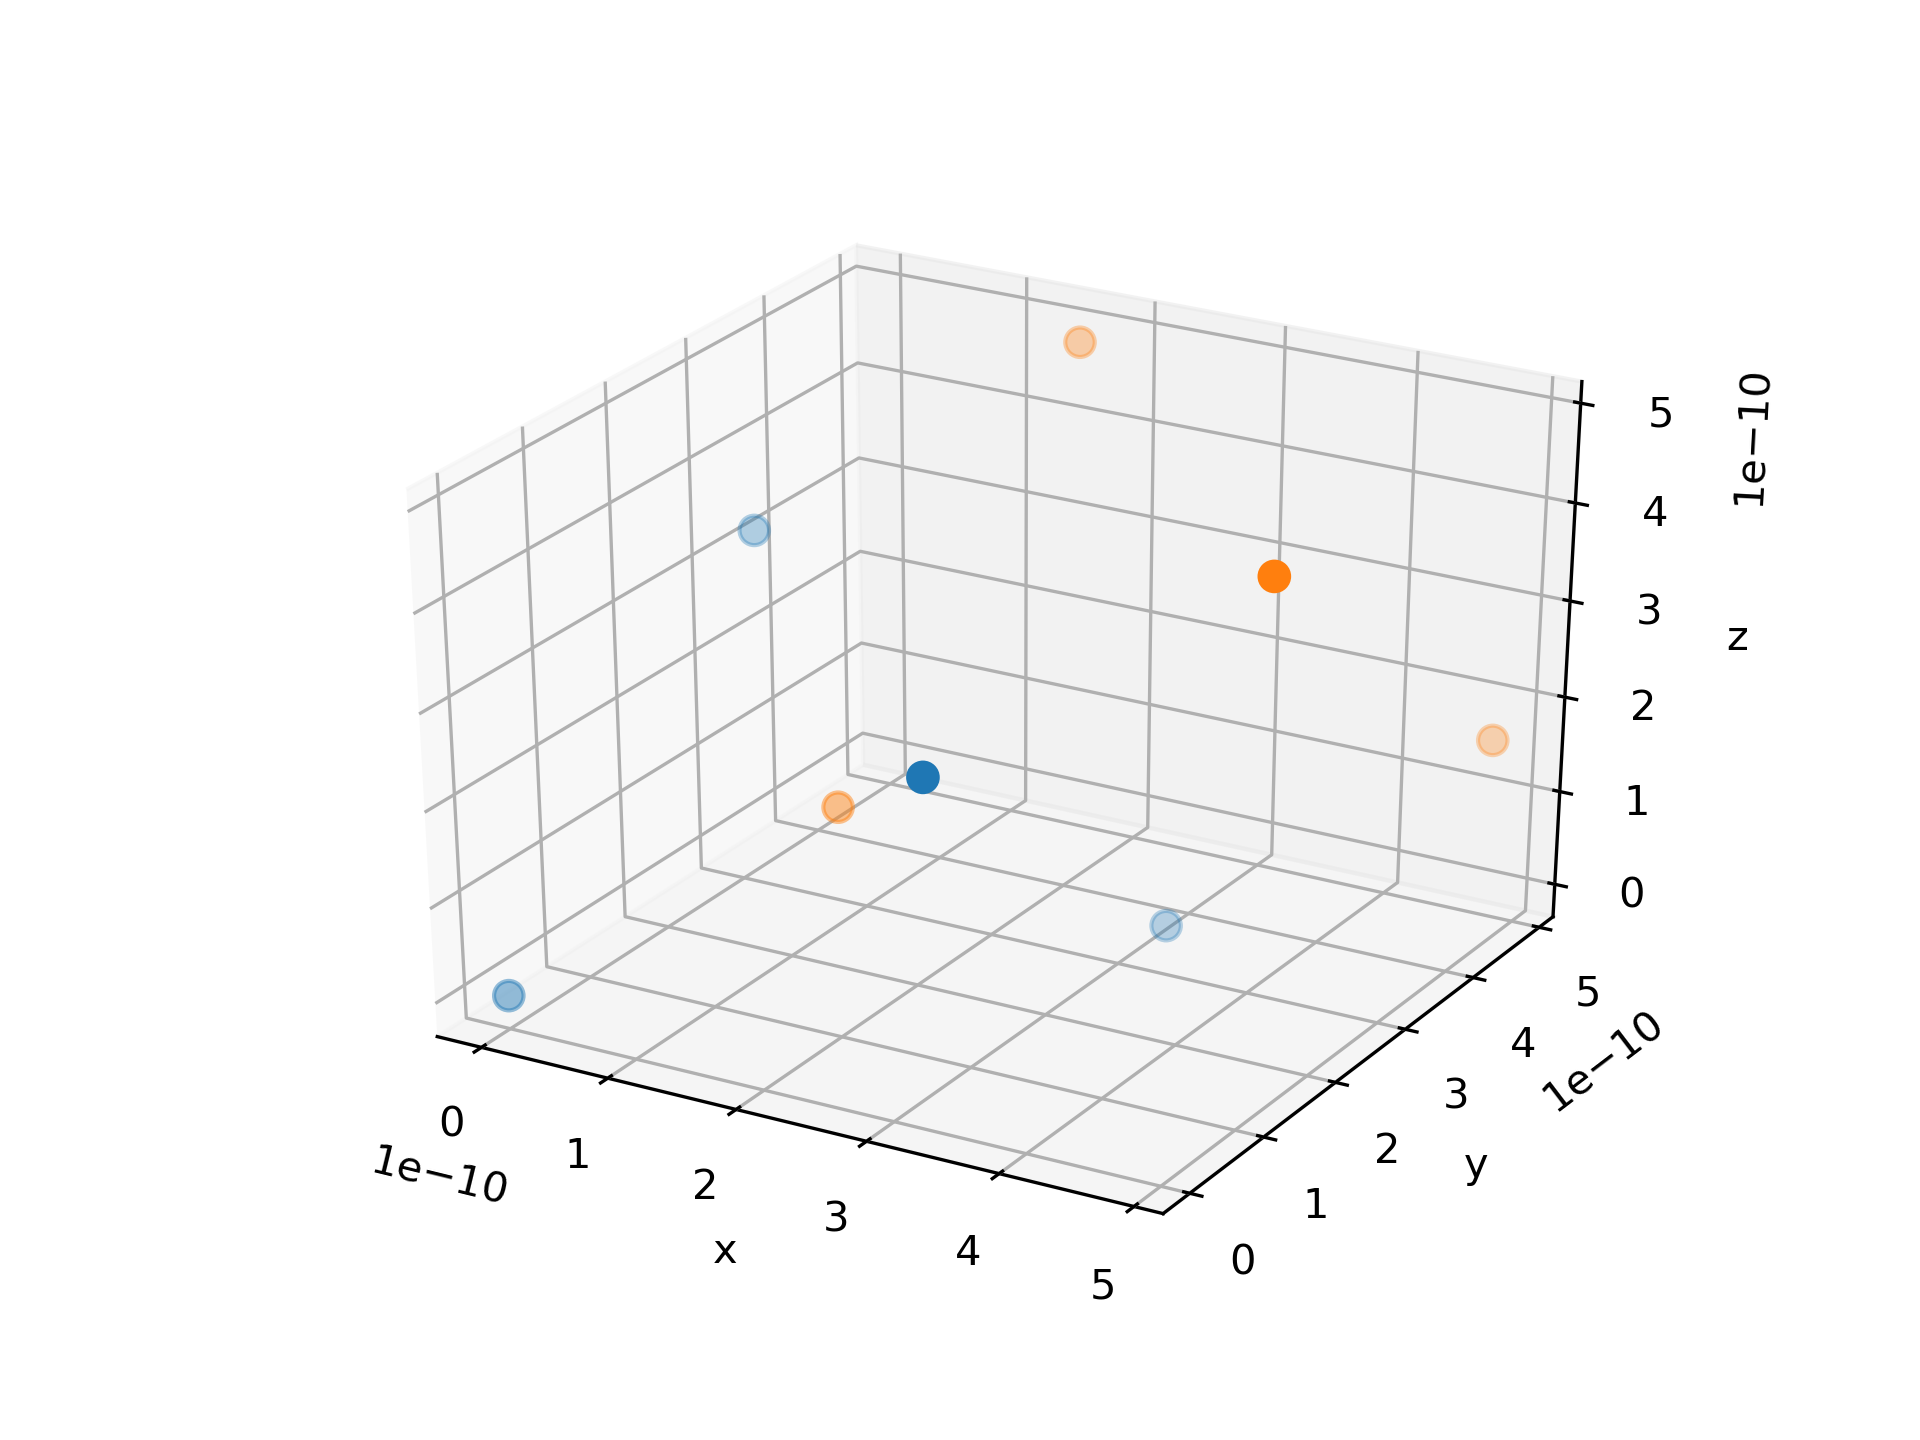
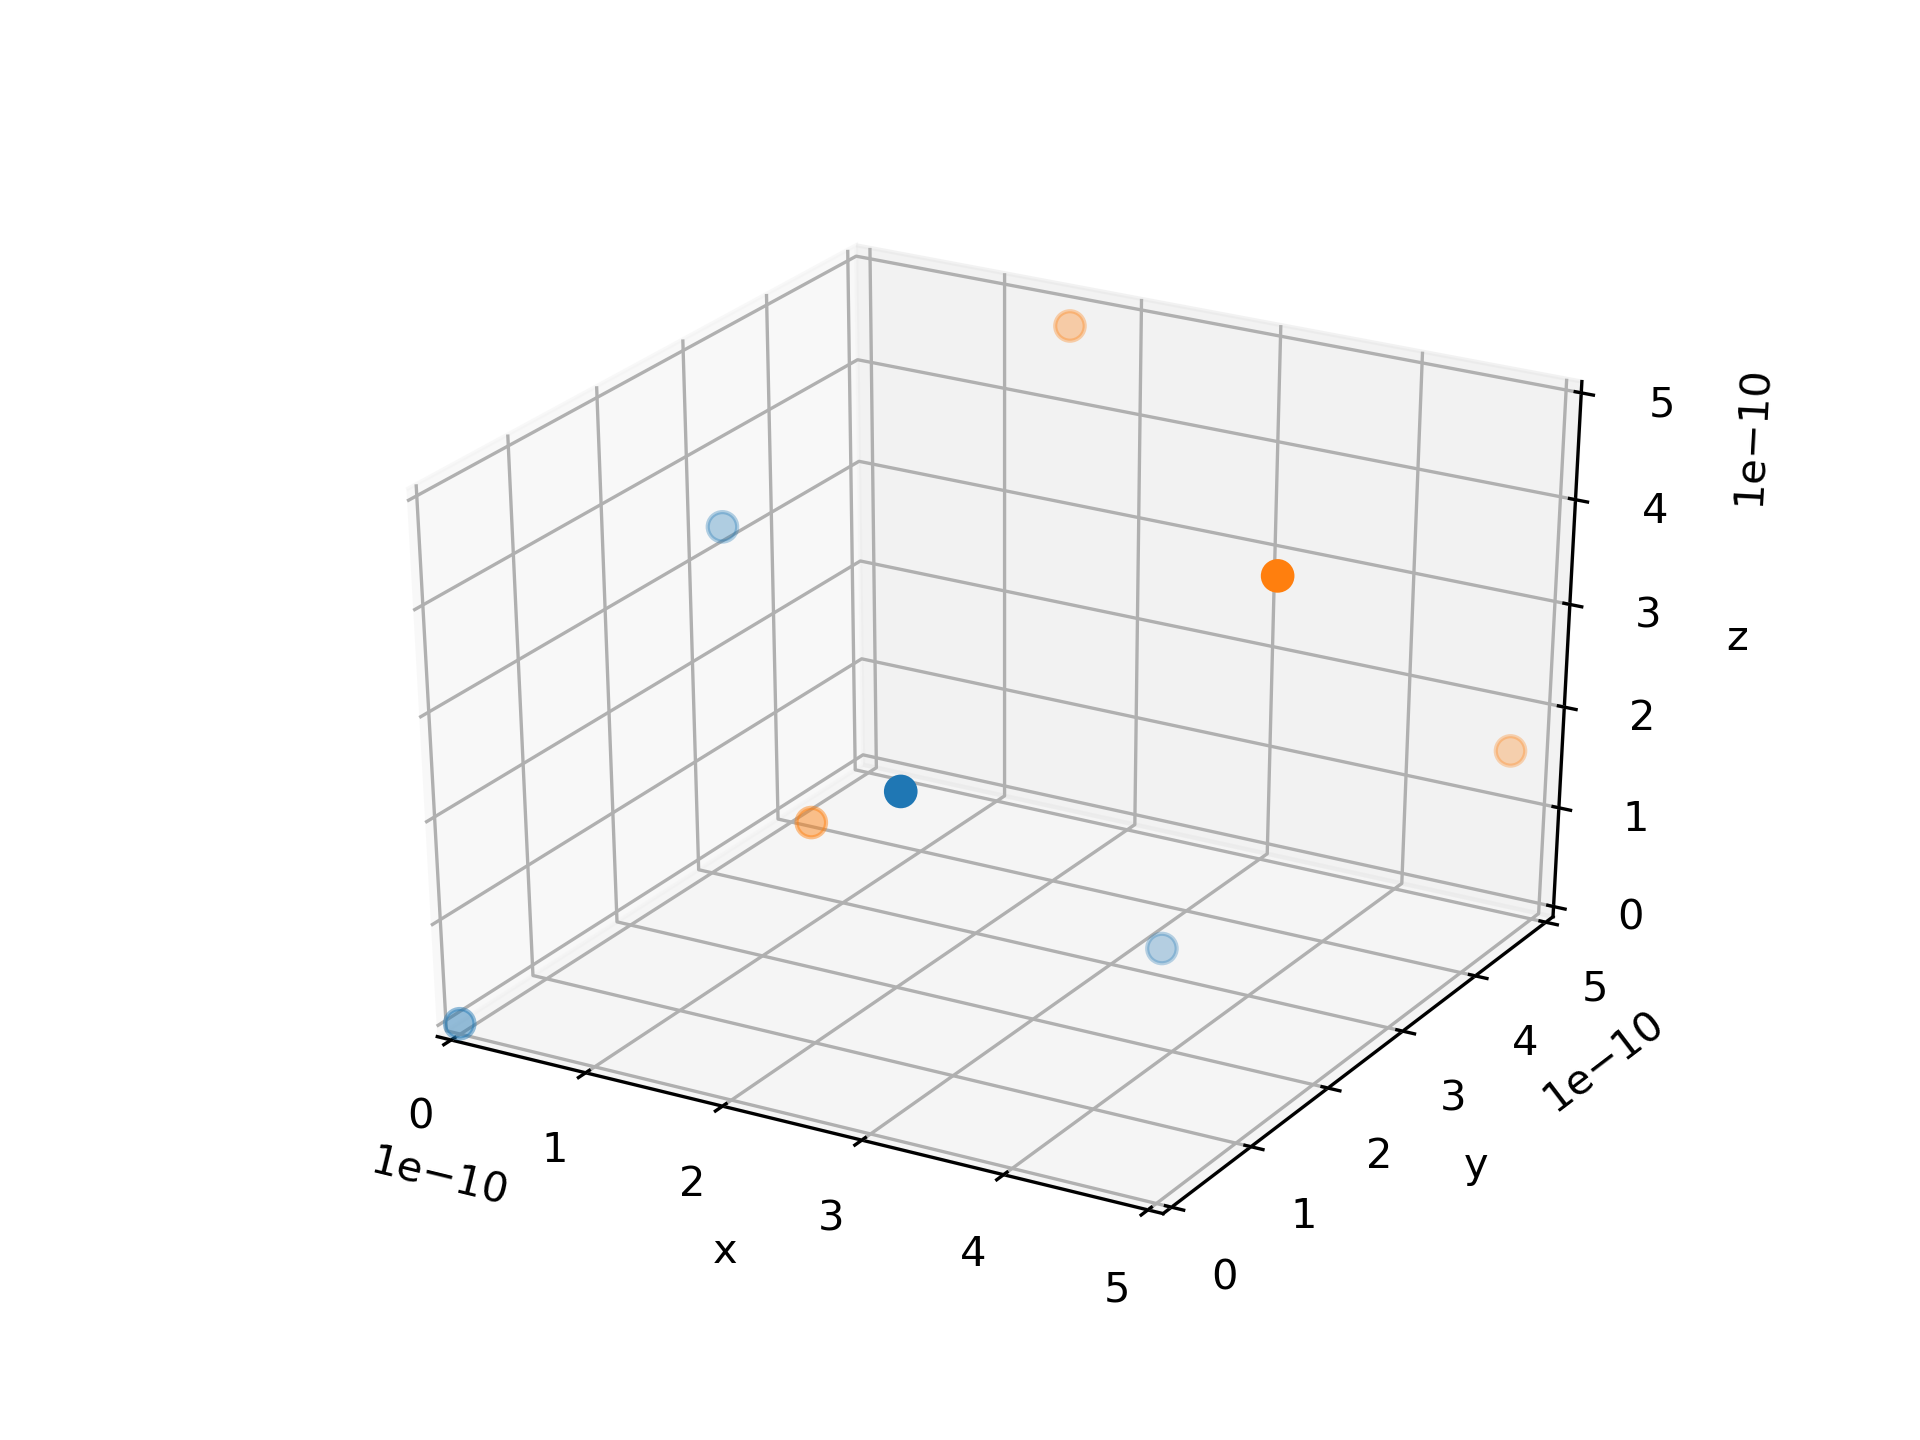
3d visualization of the phonon mode

diff --git a/py_scripts/trxd.py b/py_scripts/trxd.py
@@ -1,5 +1,144 @@
+#%%
+import numpy as np
+import matplotlib.pyplot as plt
+from math import pi
 from pre_xrd import q_hkl, f_In, f_Sb
 
-#d_hkl(2,2,2)
+#%% Build the phonon mode as a result of the (2,-2,2) laser field
+a = 6.479E-10 # Lattice constant [m]
 
-print(f_In(q_hkl(2,0,0)))
+"Equilibrium positions"
+# Note the atomic position should be multiplied by lattice const. a
+# 4 Indium atoms in an fcc crystal
+x_In = a*np.array([0, 0, 1/2, 1/2])
+y_In = a*np.array([0, 1/2, 0, 1/2])
+z_In = a*np.array([0, 1/2, 1/2, 0])
+
+# 4 Antimony atoms in an fcc crystal
+x_Sb = x_In + a*1/4
+y_Sb = y_In + a*1/4
+z_Sb = z_In + a*1/4
+
+"Simulated atomic motion from harmonic oscillator equations as a response to an electric field in ho_solve_odeint.py file"
+"Total field strength 100 kV/cm with polarization along (2,-2,2) direction"
+
+# For Indium atoms in the crystal
+# Datasets contain 10000 points over a time interval of 50 ps
+dirx_In = 100*np.loadtxt("data/dirx.txt")
+diry_In = 100*np.loadtxt("data/diry.txt")
+dirz_In = 100*np.loadtxt("data/dirz.txt")
+
+# The movement of Antimony atoms is in the opposite direction scaled by the mass ratio
+# (Born effective charge and Raman tensors are opposite signs for In and Sb)
+# Also this is the optical T-mode
+# Scaling factor
+M_In = 114.82; M_Sb = 121.71 # amu
+C = M_In/M_Sb
+
+dirx_Sb = C * (-dirx_In)
+diry_Sb = C * (-diry_In)
+dirz_Sb = C * (-dirz_In)
+
+# Create vectors containing the atomic positions in the crystal i.e., 
+# mode_x_In = x_In + dirx_In 
+mode_x_In = []; mode_y_In = []; mode_z_In = []
+mode_x_Sb = []; mode_y_Sb = []; mode_z_Sb = []
+
+no_atoms = 4
+for i in range(no_atoms):
+    mode_x_In.append(x_In[i] + dirx_In[:])
+    mode_y_In.append(y_In[i] + diry_In[:])
+    mode_z_In.append(z_In[i] + dirz_In[:])
+
+    mode_x_Sb.append(x_Sb[i] + dirx_Sb[:])
+    mode_y_Sb.append(y_Sb[i] + diry_Sb[:])
+    mode_z_Sb.append(z_Sb[i] + dirz_Sb[:])
+
+    #print(mode_x_In)
+# Convert to numpy arrays
+mode_x_In_arr = np.array(mode_x_In) #mode_x_In[0,:] is atom one 
+mode_y_In_arr = np.array(mode_y_In)
+mode_z_In_arr = np.array(mode_z_In)
+
+mode_x_Sb_arr = np.array(mode_x_Sb)
+mode_y_Sb_arr = np.array(mode_y_Sb)
+mode_z_Sb_arr = np.array(mode_z_Sb)
+
+#%% Visualize the crystal movement in the crystal
+# Not very good ... but seems like they are moving correct
+# Need to make a gif and more atoms
+from mpl_toolkits.mplot3d import Axes3D
+fig = plt.figure()
+ax = fig.add_subplot(111, projection='3d')
+#ax.scatter(0,0,0)
+ax.scatter(x_In, y_In, z_In, s=50)
+# Problem: How to add the 10000 datapoints to the 4 entries of x_In? need to do the same thing in the structure factors also
+# Probably create a new vector already above
+# Matlab understands the below, 
+ax.scatter(x_In, y_In, z_In, s=50)
+#This can be used to visualize the movement
+ax.scatter(mode_x_In_arr[:, 100], mode_y_In_arr[:, 100], mode_z_In_arr[:, 100], s=30, c='k')
+
+ax.scatter(x_Sb, y_Sb, z_Sb, s=50)
+#This can be used to visualize the movement
+ax.scatter(mode_x_Sb_arr[:, 100], mode_y_Sb_arr[:, 100], mode_z_Sb_arr[:, 100], s=30, c='k')
+ax.set_xlabel('x')
+ax.set_ylabel('y')
+ax.set_zlabel('z')
+#ax.grid(False)
+plt.savefig('figures/trxd/phonon_mode_crystal.png', format='png', dpi=300)
+plt.show()
+
+#print(f_In(q_hkl(2,0,0)))
+
+#%% Make a gif of the motion
+
+# Don't want to plot all 10000 images for the gif.
+xx = 20
+no_images = int(10000/xx)
+
+for i in range(no_images):
+    fig = plt.figure()
+    ax = fig.add_subplot(111, projection='3d')
+    ax.scatter(mode_x_In_arr[:, xx*i], mode_y_In_arr[:, xx*i], mode_z_In_arr[:, xx*i], s=50)
+    ax.scatter(mode_x_Sb_arr[:, xx*i], mode_y_Sb_arr[:, xx*i], mode_z_Sb_arr[:, xx*i], s=50)
+    # The axis is a bit weird ... 
+    ax.set_xlim3d(0, 5e-10)
+    ax.set_ylim3d(0, 5e-10)
+    ax.set_zlim3d(0, 5e-10)
+    plt.savefig('figures/trxd/gif/{}.png'.format(i), format='png', dpi=100)
+    plt.close()
+
+#Kinda sketchy to create a list like this put whatever
+list_filenames = []
+for i in range(no_images):
+    list_filenames.append('figures/trxd/gif/{}.png'.format(i))
+#print(list_filenames)
+
+import imageio
+images = []
+for filename in list_filenames:
+    print(filename)
+    images.append(imageio.imread(filename))
+#Looks good but the oscillation seems quite high??
+imageio.mimsave('figures/trxd/gif/movie.gif', images)
+
+
+# %% TIME-RESOLVED XRD INTENSITY
+"""create a structure factor function that takes h,k,l as an input"""
+# Loop the function or make a loop of the function
+# Perhaps need to loop over i = 10000 in the function
+# Also need to append them to an array
+
+def struct_F_In(h,k,l):
+    return f_In(q_hkl(h,k,l))*np.sum(np.exp(2*pi*1j*(h*(mode_x_In_arr[:, i])
+                                                   + k*(mode_y_In_arr[:, i])
+                                                   + l*(mode_z_In_arr[:, i]))))
+
+def struct_F_Sb(h,k,l):
+    return f_Sb(q_hkl(h,k,l))*np.sum(np.exp(2*pi*1j*(h*(mode_x_Sb_arr[:, i])
+                                                   + k*(mode_y_Sb_arr[:, i])
+                                                   + l*(mode_z_Sb_arr[:, i]))))
+
+def Intensity(h,k,l):
+    return (struct_F_In(h,k,l) + struct_F_In(h,k,l)) * np.conj(struct_F_In(h,k,l) + struct_F_Sb(h,k,l))

diff --git a/py_scripts/pre_xrd.py b/py_scripts/pre_xrd.py
@@ -136,10 +136,8 @@ plt.grid()
 plt.savefig('figures/pre_xrd/form_factors.png', format='png', dpi=300)
 plt.show()
 
-# Difference between the form factors
-# The structure factor is of the form: F_hkl = 4(f_In - f_Sb) for reflections:
-# h + k + l = 4N + 2 where N is an integer
 
+"""RANDOM PLOT"""
 #plt.figure(3)
 # fig, ax = plt.subplots()
 # #ax.tick_params(direction='in')
@@ -149,6 +147,11 @@ plt.show()
 # secax.set_xticks([q_hkl(2,0,0), q_hkl(2,2,2), q_hkl(6,0,0)], ['1','2','3'])
 # ax.grid()
 # plt.show()
+"""Yep"""
+
+# Difference between the form factors
+# The structure factor is of the form: F_hkl = 4(f_In - f_Sb) for reflections:
+# h + k + l = 4N + 2 where N is an integer
 
 plt.figure(4)
 plt.plot(interval, f_Sb_arr - f_In_arr)
@@ -163,7 +166,6 @@ plt.savefig('figures/pre_xrd/delta_form_factors.png', format='png', dpi=300)
 plt.show()
 
 # %% Construct the crystal structure and visualize
-
 a = 6.479E-10 # Lattice constant [m]
 
 # Note the atomic position should be multiplied by lattice const. a
@@ -188,13 +190,18 @@ ax.scatter(x_Sb, y_Sb, z_Sb, s=50) #, c='k')
 ax.set_xlabel('x')
 ax.set_ylabel('y')
 ax.set_zlabel('z')
+#The default axis is a bit weird but keep it like that anyways
+# Can flip for example ax.set_ylim3d(5e-10,0)
+ax.set_xlim3d(0, 5e-10)
+ax.set_ylim3d(0, 5e-10)
+ax.set_zlim3d(0, 5e-10)
 #ax.grid(False)
 plt.savefig('figures/pre_xrd/primitive_crystal.png', format='png', dpi=300)
 plt.show()
 
 
 # %% Construct the crystal structure from the translation vector
-"""Skip this for now, but create a function of this that takes n1, n2 and n3 as inputs!"""
+"""Skip this for now, but create a function of this that takes n1, n2 and n3 as inputs and import it to the trxd.py file"""
 # Note: Multiply everything by the lattice constant
 pos_In1 = np.array([0,0,0])
 pos_Sb1 = pos_In1 + a*1/4
@@ -209,6 +216,8 @@ pos_In_list = []; pos_Sb_list = []
 
 #Creates 2(n3 * n2 * n1) atoms
 # 222 plots fcc primitive cell of In and Sb
+# Note: Cannot exactly create the same 4 atom position configuration as in 
+# the above cell
 for n3 in range(2):
     for n2 in range(2):
         for n1 in range(2):

diff --git a/py_scripts/ho_solve_odeint.py b/py_scripts/ho_solve_odeint.py
@@ -1,6 +1,8 @@
 #%%
 import numpy as np
 import matplotlib.pyplot as plt
+
+#LSODA as implemented in odeint seems to work the best
 from scipy.integrate import odeint
 
 #%% Constants
